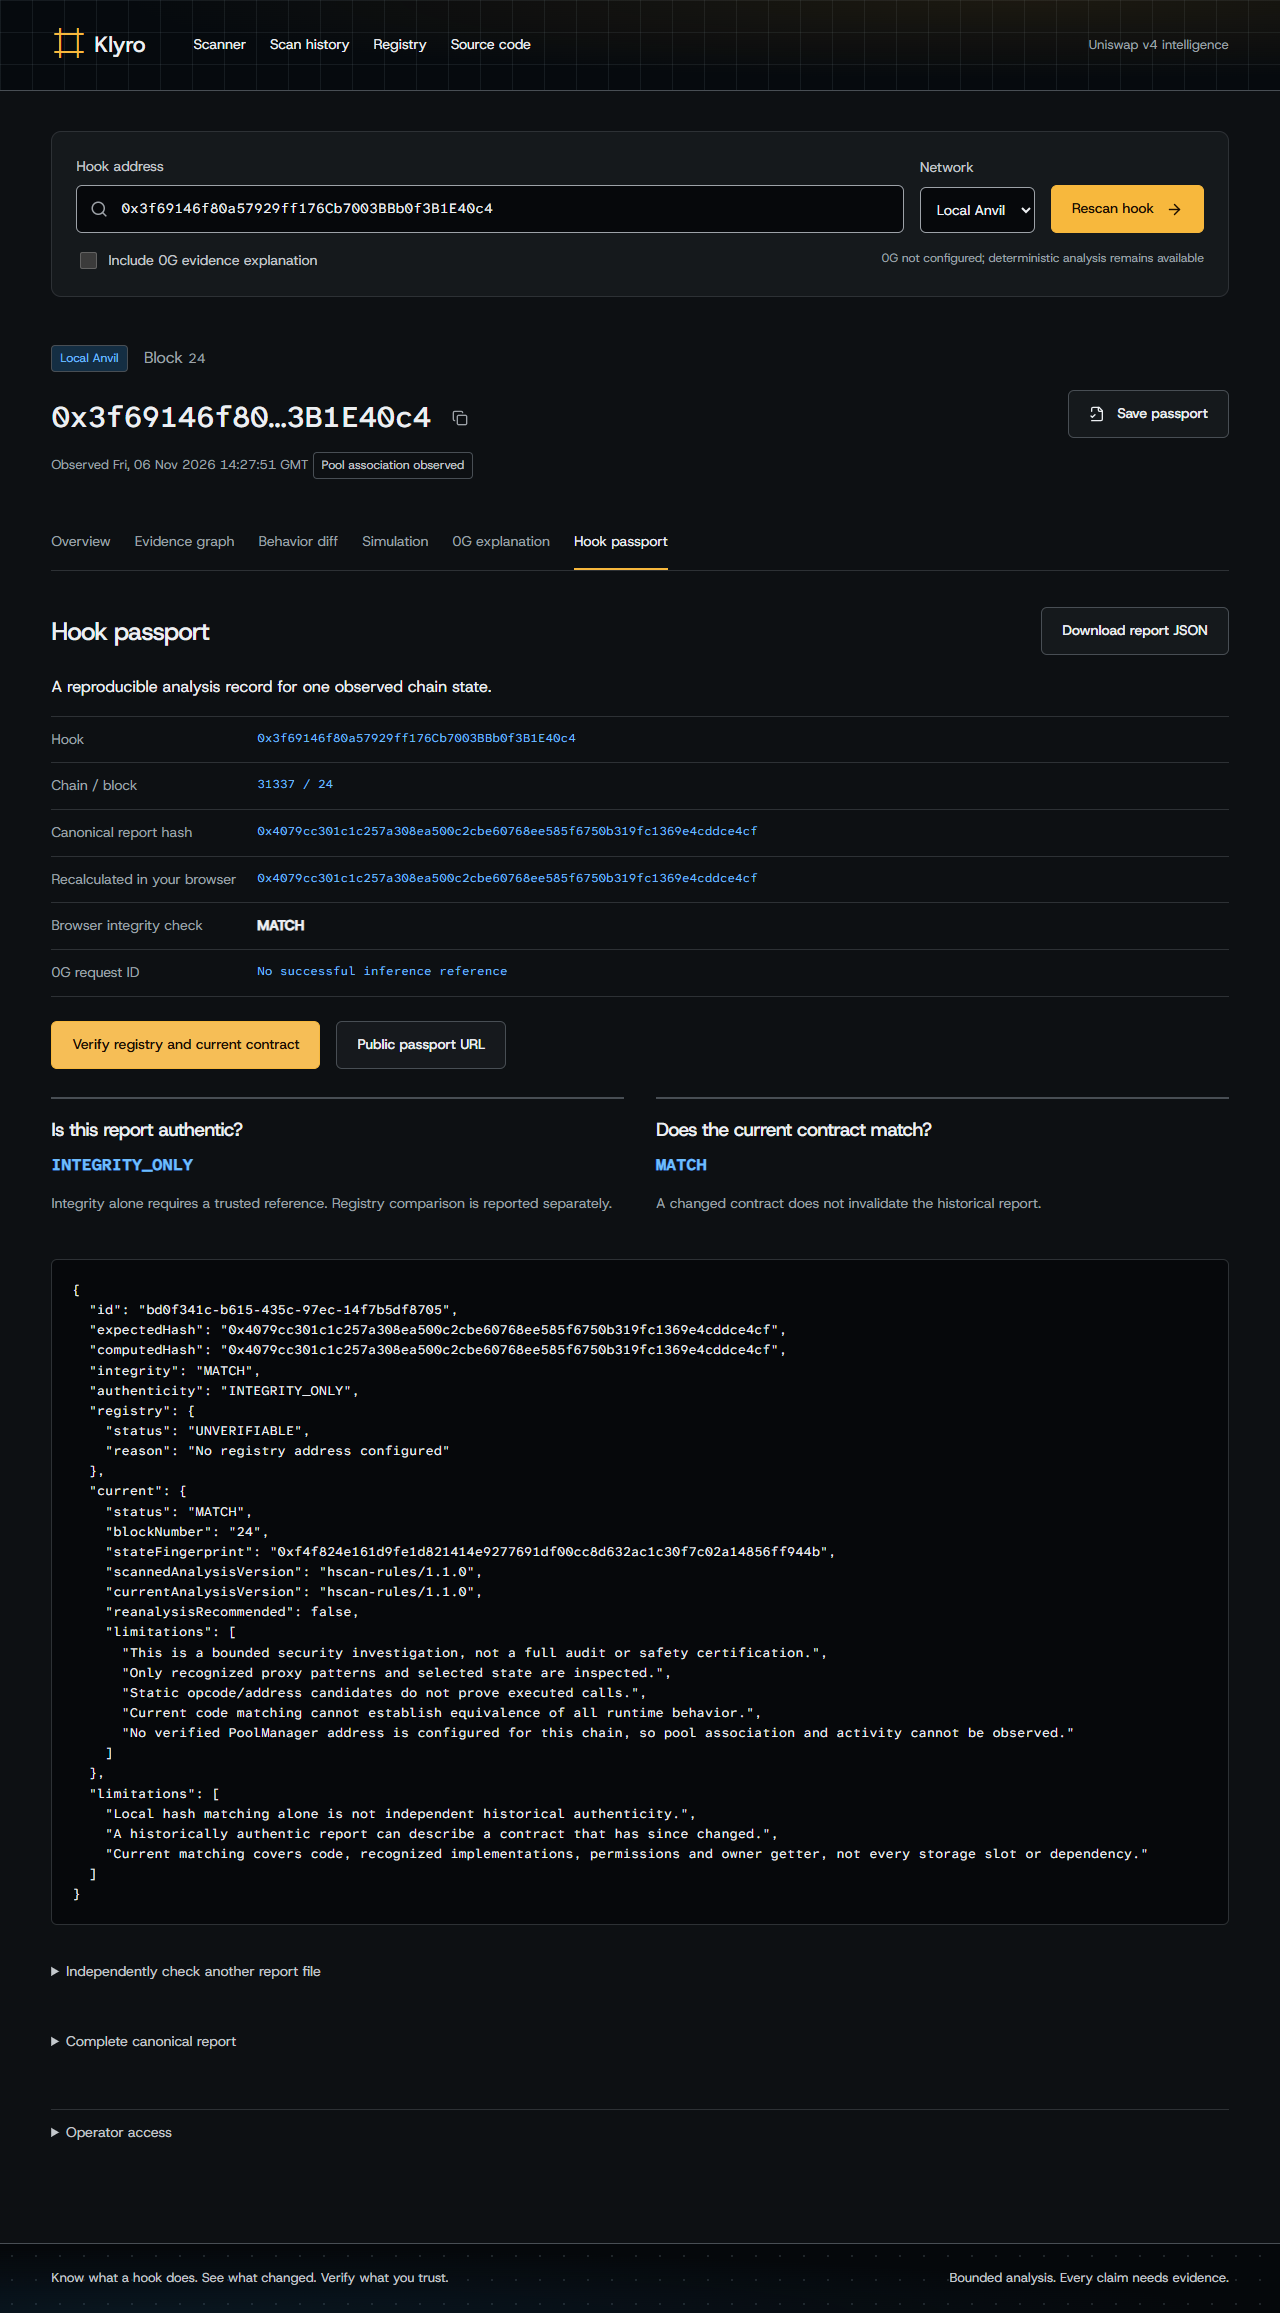
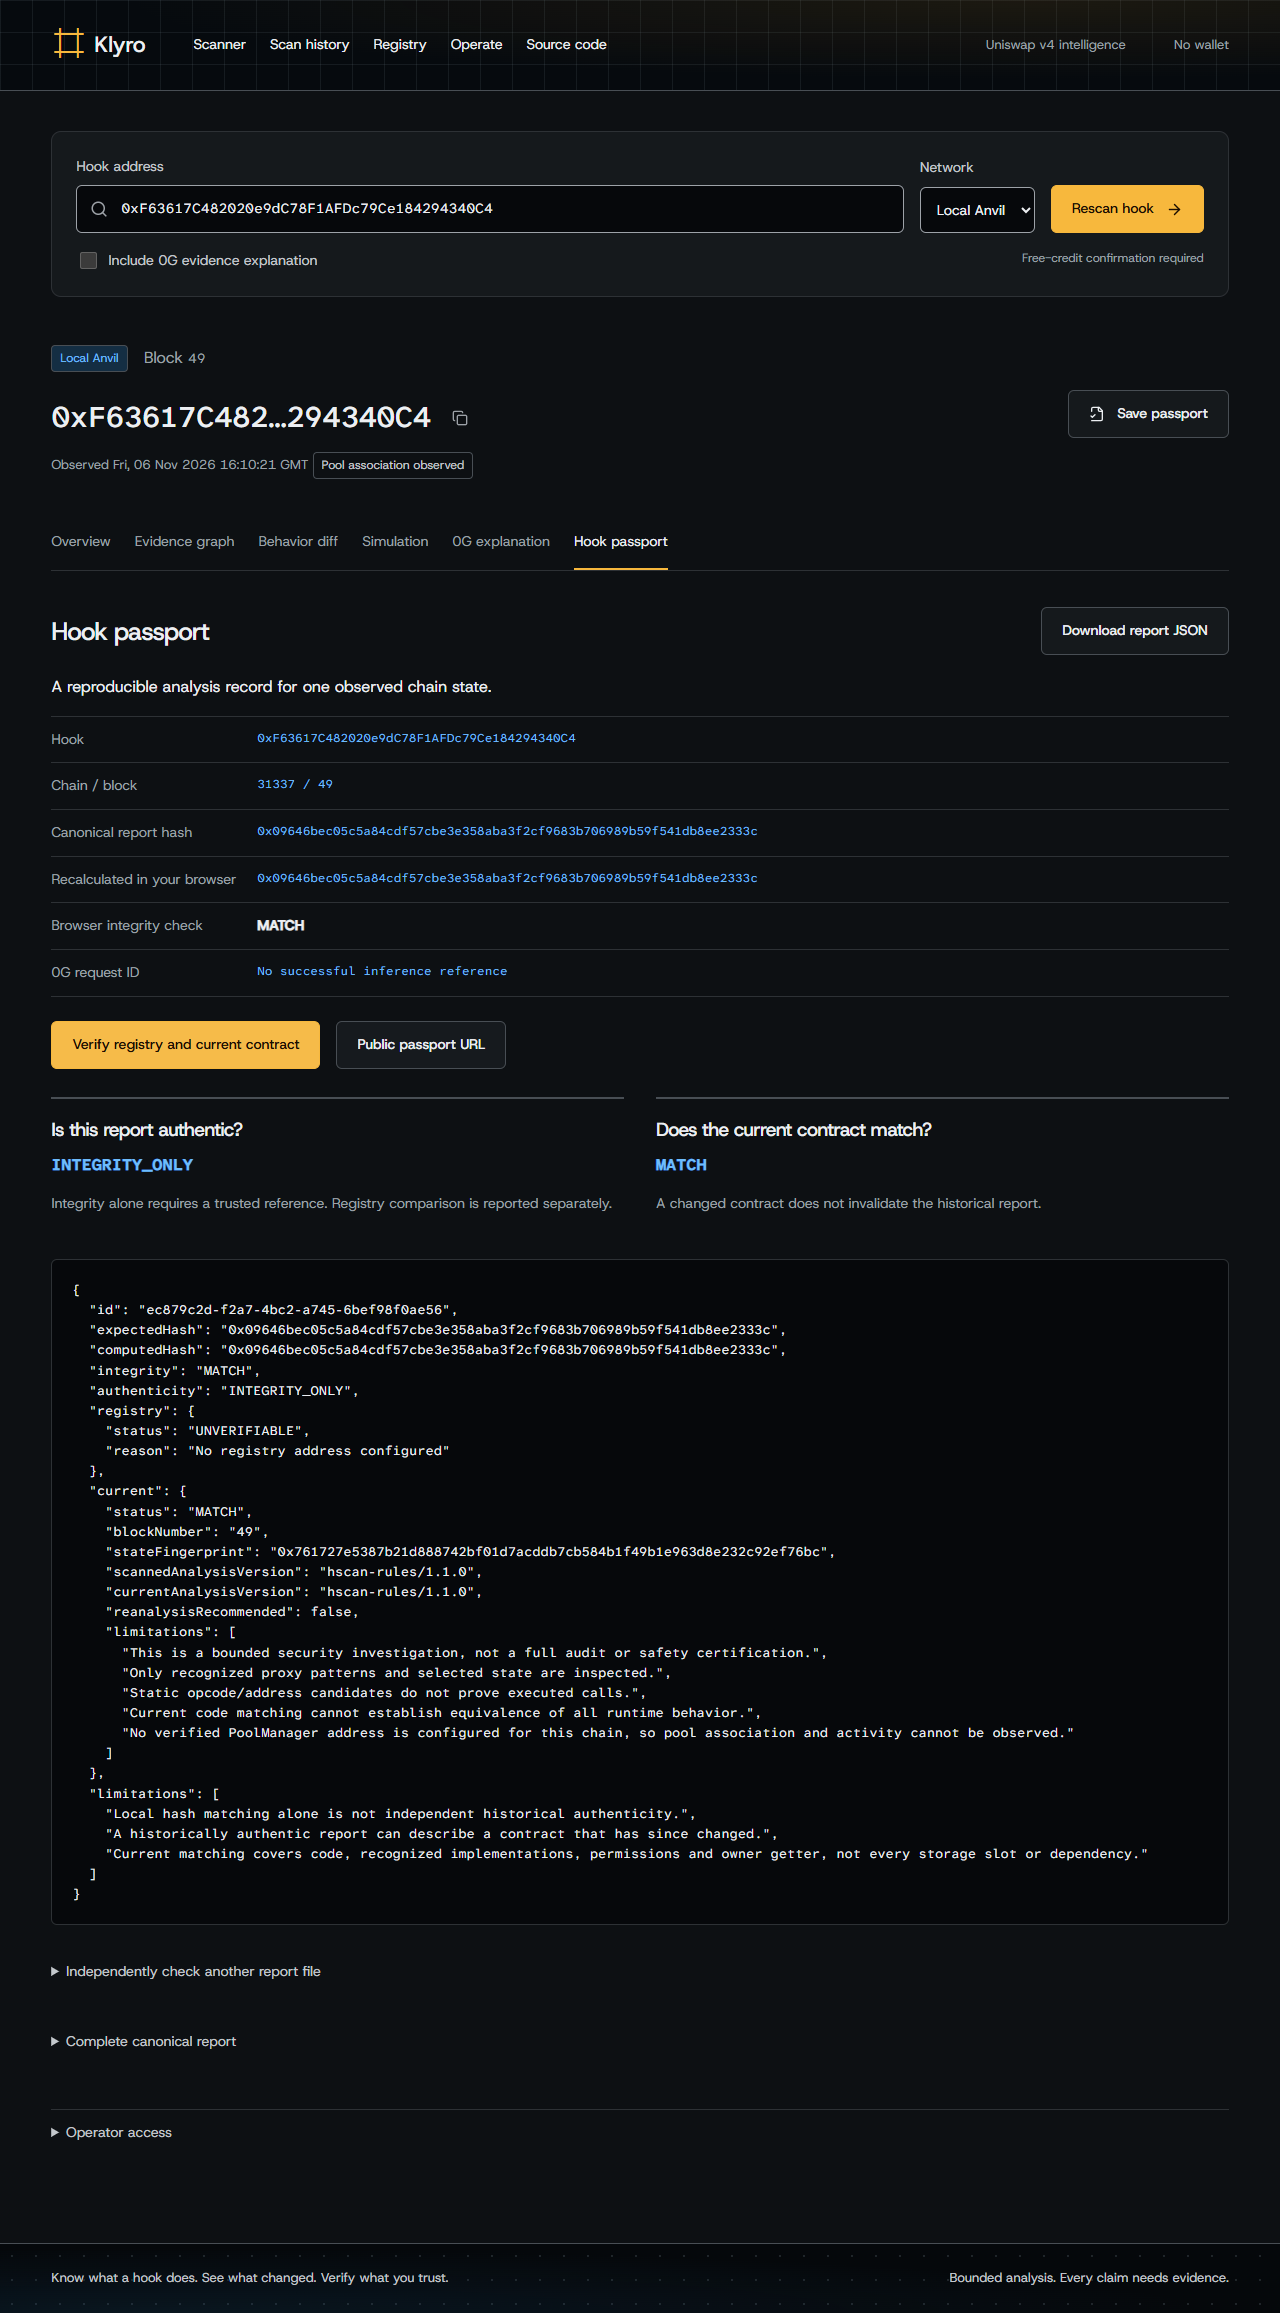
docs: record the wallet deployment pass and refresh executed evidence
Typecheck, 101 unit tests, 11 Foundry tests, production build and 12
desktop/mobile browser journeys, plus a real wallet-shaped deployment and
publication on local chain 31337 and a live 0G 402 diagnosis. No public
testnet deployment or inference output is claimed.

diff --git a/README.md b/README.md
@@ -27,12 +27,15 @@ The core application is implemented and locally verified. **The full hackathon c
 - Real Uniswap v4 baseline/hook fixture on Foundry and Anvil, with observed callback counts, return-delta fee, balances, receipts and gas.
 - Canonical Hook Passports, browser-side hashing, tamper rejection, registry readback and a separate current-contract match.
 - Official 0G Router integration and CRE workflow code with honest unavailable/blocked states. CRE compiled to WASM; compilation is not successful CLI simulation.
+- Wallet-signed registry deployment and report publication (`/?view=deploy`). The server prepares the exact transaction and reads the receipt back; it holds no key, and nothing is recorded as deployed or published without a confirmed chain response. Analysis stays usable with no wallet at all.
+- Scheduled hook monitoring with a durable SQLite lease, per-run history, backoff and restart recovery; monitoring survives restarts and never double scans a hook.
+- Live 0G diagnosis: the configured account returns HTTP 402 `pay_no_balance`, so inference is reported unavailable rather than fabricated. The app distinguishes empty credits from a wrong model id.
 
 A passport is a record of bounded analysis, not a safety certificate. Local fixtures are not production-hook simulations.
 
 ## Stack and architecture
 
-Next.js 16.4.5, React, TypeScript, Zod, viem, Node 24 built-in SQLite, Solidity 0.8.26, official @uniswap/v4-core 1.0.2, Foundry 1.7.1, Chainlink CRE SDK 1.23.0 and documented 0G Router APIs. Dependencies are pinned in package-lock.json. The scanner requires no wallet connection or private key.
+Next.js 16.4.5, React, TypeScript, Zod, viem, Node 24 built-in SQLite, Solidity 0.8.26, official @uniswap/v4-core 1.0.2, Foundry 1.7.1, Chainlink CRE SDK 1.23.0 and documented 0G Router APIs. Dependencies are pinned in package-lock.json. The scanner requires no wallet connection or private key. A wallet is needed only to deploy the registry or publish a report, and each of those is one explicit approval in your own wallet.
 
 Browser → typed API → block-pinned observations → deterministic rules/evidence → SQLite snapshot → relational facts (hook, activities, participants) → diff → optional 0G explanation → immutable passport → CRE validation/publication → registry. [Architecture and trust boundaries](docs/architecture.md).
 
@@ -107,11 +110,11 @@ Read [cre/README.md](cre/README.md). Install the official CLI and Bun, log in, a
 
 ## Actual deployment and transaction records
 
-[evidence/local-simulation.json](evidence/local-simulation.json) contains local chain-31337 contract addresses and swap receipts. [evidence/integration.json](evidence/integration.json) contains the actual local registry publication transaction and report hash. [evidence/proxy-upgrade.json](evidence/proxy-upgrade.json) contains an actual local upgrade. No local address or receipt is presented as a public explorer record.
+[evidence/wallet-deployment.json](evidence/wallet-deployment.json) records a real wallet-shaped deployment of HookRiskRegistry and a real `publish` transaction on local chain 31337, including block, gas, `owner()` read-back and a rejected duplicate publication. [evidence/registry-deployment.json](evidence/registry-deployment.json) is the same contract deployed by `npm run deploy:registry`. Both survive an application restart. [evidence/local-simulation.json](evidence/local-simulation.json) contains local chain-31337 contract addresses and swap receipts. [evidence/proxy-upgrade.json](evidence/proxy-upgrade.json) contains an actual local upgrade. No local address or receipt is presented as a public explorer record.
 
 ## Deployment
 
-Use a persistent Node host with a mounted SQLite volume. `npm run build` then `npm start` runs production. A Dockerfile and compose.yaml are supplied; the container configuration has not been deployment-tested here. `docker compose up --build` expects a private .env configuration. Keep the SQLite volume persistent and set APP_ORIGIN before serving the app. A stable public deployment requires an approved host; public tunnel publication is pending specific authorization.
+Use a persistent Node host with a mounted SQLite volume. `npm run build` then `npm start` runs production. The Dockerfile compiles the registry artifact inside the image and keeps `/app/data` as the volume. `docker compose up --build` expects a private .env configuration. Keep the SQLite volume persistent and set APP_ORIGIN before serving the app. [Host options: Render vs Vercel](docs/deployment-hosts.md). Vercel's filesystem is ephemeral, so SQLite history and the scheduler do not survive there.
 
 The background scan worker requires a continuously running Node process. Do not use request-terminating serverless hosting without replacing it with a durable queue. Cloudflare Worker-only hosting does not support the selected node:sqlite runtime. [Deployment details](docs/deployments.md).
 

diff --git a/EVIDENCE.md b/EVIDENCE.md
@@ -73,6 +73,52 @@ The Uniswap participant form and human-narrated video remain pending. Prepared f
 
 The full checklist remains in docs/requirements.md. Git history and the verified remote ref, after push, are the source of truth for publication.
 
+## Third pass — wallet deployment, 0G truth check (7 November 2026)
+
+Inspected the live configuration without printing any credential. 0G model
+catalog read (HTTP 200, 125 models); the configured `ZERO_G_MODEL` is the literal
+text `id`, which is not in the catalog, and a real inference request returned
+HTTP 402 `pay_no_balance` ("Add funds to keep using services."). No inference
+result is claimed. The diagnosis was corrected so an empty account is no longer
+reported as a model problem, and `/api/ai/models` now reports account state.
+
+Failures found and fixed in this pass:
+
+- A production build on loopback refused every costly POST with HTTP 503
+  ("Set OPERATOR_TOKEN…") because the token was demanded unconditionally. It is
+  now required only for a public `APP_ORIGIN` or a public browser Origin, so a
+  single-operator local run works and a public host is still gated.
+- `/api/passports/<id>/publication-intent` returned the whole passport instead of
+  the five publish fields, producing `Cannot convert undefined to a BigInt` in
+  the publishing client. It is now matched before the plain passport route and
+  returns the flattened intent.
+- The Dockerfile never compiled the Solidity artifact, so the deploy endpoints
+  would fail in a container. It now runs `contracts:build` and copies
+  `contracts/out` into the runtime image.
+- The operator page duplicated the wallet status and left an empty band above the
+  panels; screenshot review caught it and both were removed.
+
+Executed in this pass:
+
+| Check | Actual outcome |
+|---|---|
+| TypeScript | Passed |
+| Unit/regression tests | 101 passed, 0 failed |
+| Foundry | 11 passed, 0 failed |
+| Desktop/mobile browser journeys | 12 passed, 0 failed |
+| Production build | Passed |
+| Wallet deployment on Anvil | Receipt success, codeSize 2001, `owner()` matches deployer |
+| Wallet publication on Anvil | `status: published`, gas 161712, read-back MATCH |
+| Duplicate publication | Reverted on chain (asserted) |
+| Persistence across restart | 1 deployment and 1 publication still present |
+| Registry state read live | owner and codeSize read from the chain at a named block |
+| Passport verification | integrity MATCH, authenticity REGISTRY_MATCH |
+| Chain reachability | Ethereum, Sepolia, Base and Anvil all answered |
+
+Not claimed: a public testnet deployment, authenticated CRE simulation, or any
+0G inference output. See evidence/wallet-deployment.json and
+evidence/registry-deployment.json (both chain 31337).
+
 ## Fresh-checkout CI
 
 GitHub Actions run https://github.com/gnana2007/Klyro/actions/runs/42192091905 completed successfully for c3c13341f5cef1eb43c8524718b153eb935bc964. The fresh Linux runner completed npm ci, type checks, 40 unit tests, production build, 11 Foundry tests, CRE WASM compilation, local simulation and six browser tests. Later commits are independently checked by the same workflow; the live Actions status is authoritative.

diff --git a/evidence/wallet-deployment.md b/evidence/wallet-deployment.md
@@ -1,0 +1,11 @@
+# Wallet deployment + publication — local Anvil (31337)
+
+Executed 2026-11-06T15:43:38Z against a real local chain. See evidence/wallet-deployment.json.
+
+Confirmed by reading the chain, not by trusting the request:
+- deployment status: DEPLOYED at 0x84ea74d481ee0a5332c457a4d796187f6ba67feb, block 33, gas 532850, codeSize 2001, owner() read-back matches
+- record survived an application restart (1 deployment, 1 publication still present)
+- publication status: PUBLISHED, block 34, gas 161712
+- duplicate publication of the same report hash reverted on chain
+- registry state read live: owner 0xf39Fd6e51aad88F6F4ce6aB8827279cffFb92266, codeSize 2001, block 34
+- /api/verify/<passport> => integrity MATCH, authenticity REGISTRY_MATCH, publishedAt 1793979772
